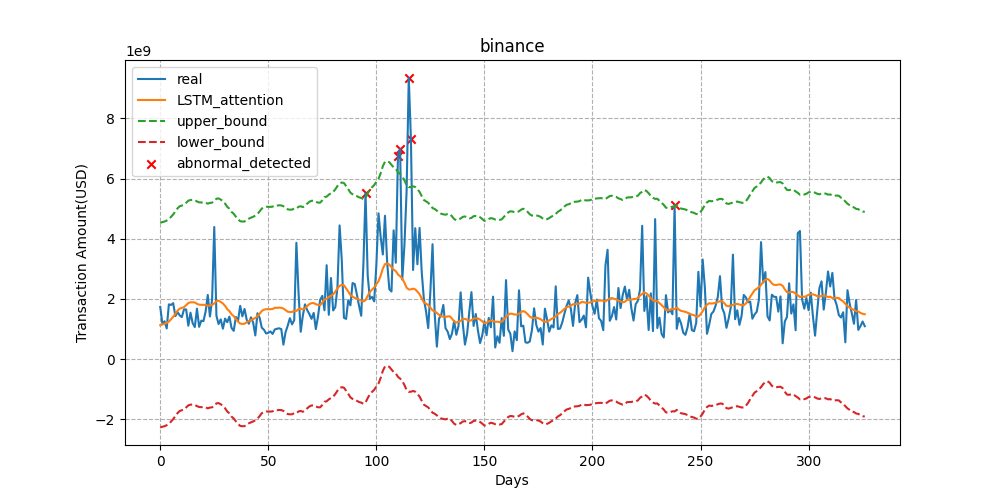
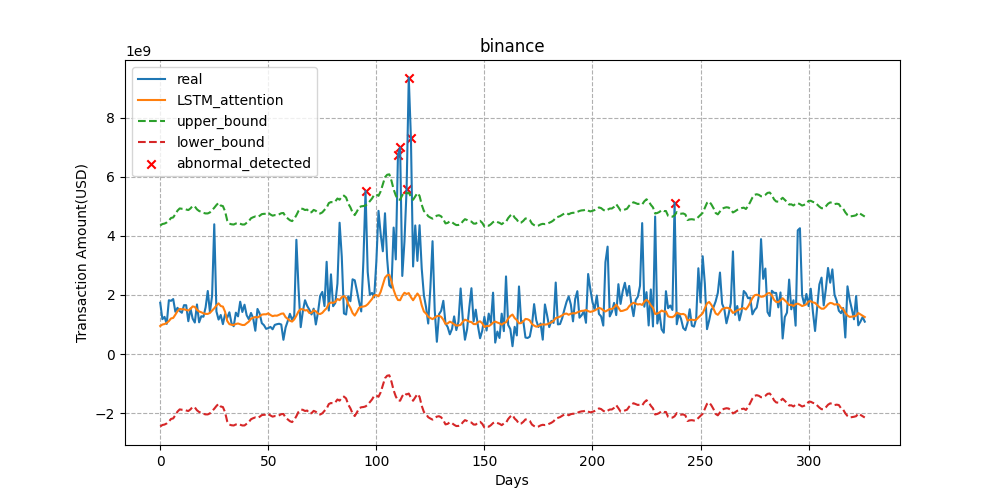
fix the return value of DE, only consider RMSE before, now consider RMSE+MAE+MAPE

diff --git a/DE_abnormal_detection.py b/DE_abnormal_detection.py
@@ -330,10 +330,10 @@ if __name__=='__main__':
         temp_rmse, temp_mae, temp_mape = lstm(round(v0), round(v1), round(v2))
         ret = 0
         for jj in range(len(temp_rmse)):
-            ret += temp_rmse[jj]
+            ret += temp_rmse[jj]+temp_mae[jj]+temp_mape[jj]
         return ret
 
-    de = DE(func=f, n_dim=3, size_pop=10, max_iter=10, lb=[8, 5, 8], ub=[128, 80, 128])
+    de = DE(func=f, n_dim=3, size_pop=20, max_iter=100, lb=[8, 5, 8], ub=[128, 80, 128])
     best_x, best_y = de.run()
     print('best_x:', best_x, '\n', 'best_y:', best_y)
     # lstm()

diff --git a/abnormal_detection.py b/abnormal_detection.py
@@ -298,6 +298,6 @@ def cal_date():
             print(otherStyleTime)
 
 if __name__=='__main__':
-    lstm()
+    # lstm(76, 5, 111)
     # parameter_sensitivity("seq_len", [5, 10, 20, 40, 80])
-    # cal_date()
+    cal_date()
